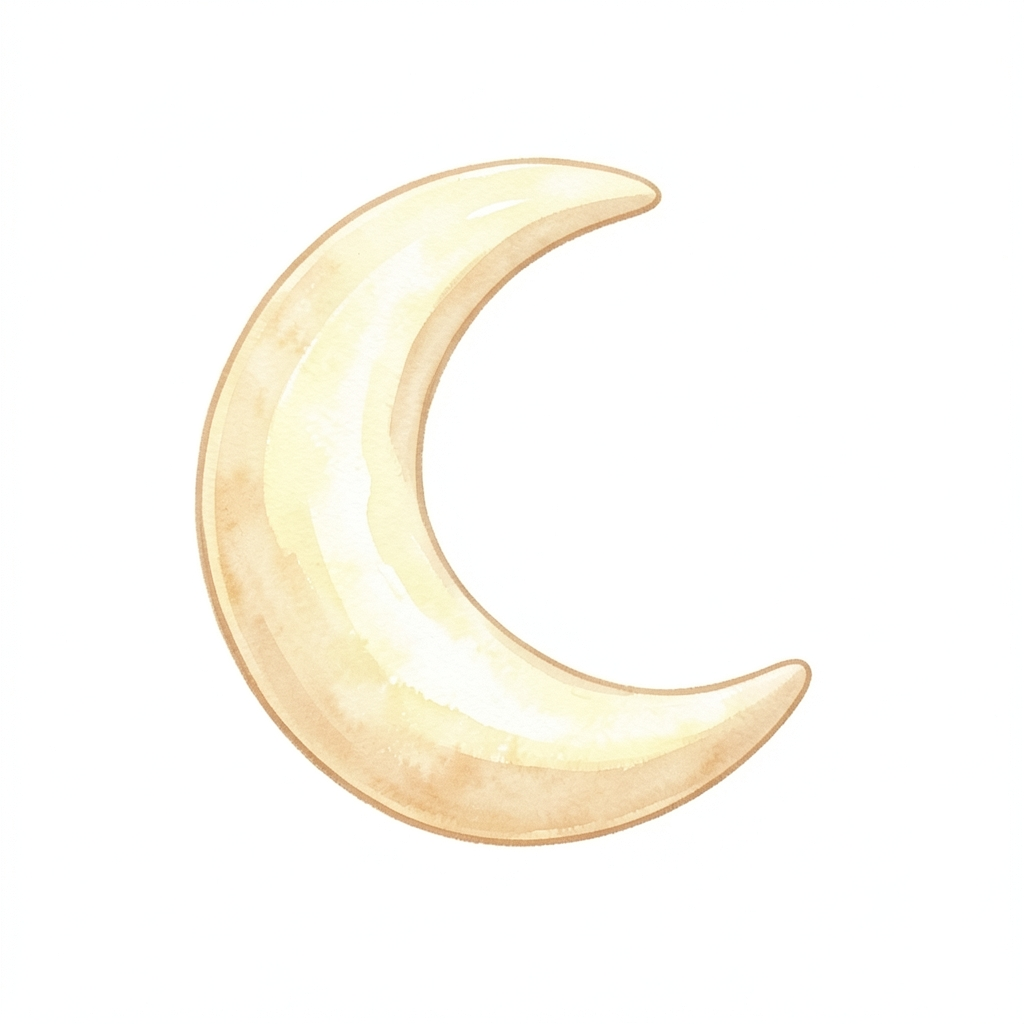
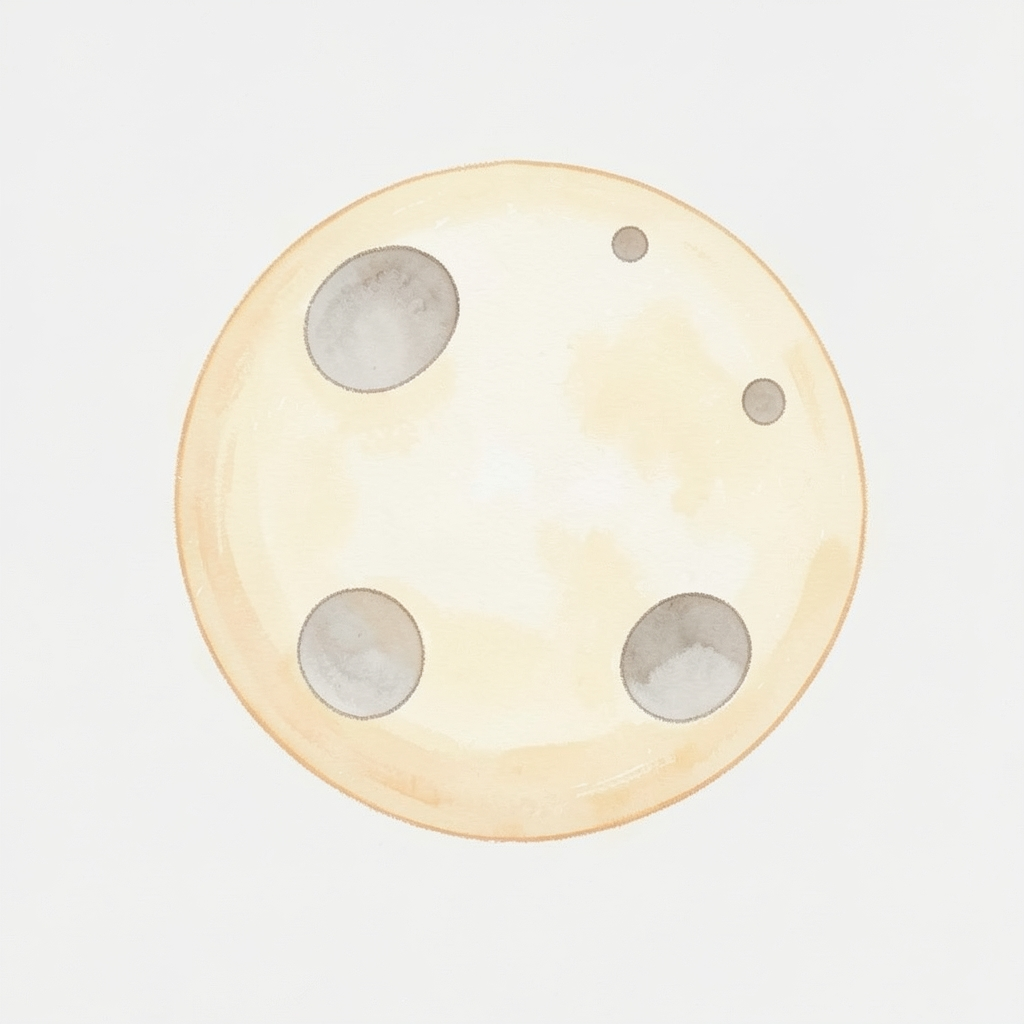
Regenerate moon as an approved full moon with craters
Task 289: user play-test feedback said the approved crescent read as a young moon. prompts/moon.md now specifies one complete evenly lit disc with 4-6 soft craters; iteration 2 approved 2026-10-29. Updates the QA facts row and the progress ledger. No runtime integration.

Agent: OpenCode/Big Pickle

Changed region(s): [[0.1562, 0.1562, 0.875, 0.8438], [0.25, 0.375, 0.2812, 0.4062]]

diff --git a/resources/General_reviews/Asset_Generation/prompts/moon.md b/resources/General_reviews/Asset_Generation/prompts/moon.md
@@ -14,10 +14,16 @@ Canvas: square 1024×1024 WIP image, one centered object with generous padding.
 
 Background: warm cream storybook paper, softly painted and unobtrusive; no transparency required for this WIP candidate.
 
+Iteration note (2026-10-29): iteration 1 was a broad crescent moon. User feedback: it reads as a young moon — they want a **full moon with a few craters**, closer to the real moon.
+
 --- prompt ---
 
-Create one clearly recognizable simple crescent moon as a standalone children's storybook illustration. Show a single softly rounded crescent with warm pale golden-yellow shading and a few very subtle painted tonal variations. Keep the crescent broad and readable at small game-object size, matching the Little Play family style: rounded softened construction, restrained watercolor grain, gentle edge shading, muted but unmistakable colour, and no heavy outline.
+Create one clearly recognizable simple FULL moon as a standalone children's storybook illustration: a single complete round disc, not a crescent and not a partly lit sphere.
 
-Center the complete crescent with comfortable padding and no cropping. The moon is the only subject. It must read as a crescent moon, not a banana, horn, curved leaf, or abstract shape.
+Show the full circle of the moon with warm pale cream-yellow paper colour and a small number of simple soft craters — four to six rounded, shallow, slightly darker warm-grey patches of different sizes, spread gently across the disc, one larger near the upper left. Keep the craters soft and painted, not detailed or photographic, and keep the disc evenly and fully lit (no shadow side, no terminator line).
 
-No face, eyes, smile, stars, sky, clouds, planet, rocket, astronaut, text, letters, logo, background scene, glossy 3D rendering, photorealism, emoji/vector styling, heavy black outline, strong glow, or extra moons.
+Match the Little Play family style: rounded softened construction, restrained watercolor grain, gentle painted edge and surface shading, muted but unmistakable colour, and no heavy outline. The disc must stay readable at small game-object size.
+
+Center the complete full moon with comfortable padding and no cropping. The moon is the only subject. It must read as a full moon, not a crescent, a ball, an egg, a cookie, or a cheese wheel.
+
+No crescent shape, no partly lit sphere, no shadow side, no face, eyes, smile, stars, sky, clouds, planet, rocket, astronaut, text, letters, logo, background scene, glossy 3D rendering, photorealism, emoji/vector styling, heavy black outline, strong glow, or extra moons.

diff --git a/resources/General_reviews/Asset_Generation/prompts/telescope.md b/resources/General_reviews/Asset_Generation/prompts/telescope.md
@@ -12,8 +12,17 @@ Canvas: square 1024×1024 WIP image, one centered object with generous padding.
 
 Background: warm cream storybook paper; no transparency required for WIP.
 
+Iteration note (2026-10-29): iteration 1 was accepted as "looks good" but the user asked for a more realistic tube — a glass lens at the wide front end pointing up, and a narrow viewing end. This brief now specifies a real refractor build.
+
 --- prompt ---
 
-Create one clearly recognizable simple children's telescope as a standalone storybook illustration. Show one short angled telescope tube with a wide front rim, small rear eyepiece and a simple three-legged tripod. Use muted warm brown, cream and gentle blue-grey, soft watercolor grain, rounded construction and gentle shading. Center the complete telescope with comfortable padding. It must read as a telescope, not a camera or spyglass held by a person.
+Create one clearly recognizable simple children's telescope as a standalone storybook illustration: a refractor telescope on a tripod, angled up toward the sky.
 
-No person, hands, stars, sky, planets, text, logo, face, scene, glossy 3D rendering, photorealism, emoji/vector styling, heavy black outline, glow or extra objects.
+- One long tube made of **two or three stepped barrel segments**: a WIDE front barrel at the upper end and a narrow rear barrel that steps down toward the viewer, so the tube visibly tapers from front to back like a real telescope.
+- At the upper front opening show a **visible round glass lens** — a smooth pale blue-white disc with one soft crescent highlight, seated inside a slightly wider front rim, clearly enclosed by the barrel.
+- At the lower rear end show a **small narrow eyepiece** — a short cylindrical tube with a dark round opening, much thinner than the front barrel.
+- A simple mount between tube and tripod, with a **three-legged tripod** standing evenly on a level base.
+
+Use muted warm brown, cream and gentle blue-grey, soft watercolor grain, rounded construction and gentle shading. Center the complete telescope with comfortable padding. It must read as a real telescope, not a camera, a spyglass held by a person, a trumpet, or a plain tube with no lens.
+
+No person, hands, stars, sky, planets, text, logo, face, scene, glossy 3D rendering, photorealism, emoji/vector styling, heavy black outline, glow, or extra objects.

diff --git a/resources/General_reviews/Asset_Generation/PROGRESS.md b/resources/General_reviews/Asset_Generation/PROGRESS.md
@@ -1159,3 +1159,12 @@ The user asked for the same pictures at the family resolution, **not** new artwo
 - [x] **Generated (iteration 2, kept):** 1024x1024, 966,202 bytes, opaque. Measured: paper 221.87/227.03/235.74, palette-match vs bear 0.6591, small-size legibility proxy 117.22.
 - [x] **User review: APPROVED 2026-10-29.** The inventory row is `GENERATED / USER-APPROVED / TECHNICAL QA MEASURED`.
 - [ ] **Not done here:** no copy into `game/assets/images/`, no glyph swap, no new smoke, no screenshot refresh, no offline pack, no `sync-docs.sh` — `game/` was not touched.
+
+## Regenerated — moon (object-moon), full moon, approved 2026-10-29 (task 289)
+
+- [x] **Preflight.** The row was already `GENERATED / USER-APPROVED` from the 2026-10-26 objects batch, but the user reported at play-test review that the picture reads as a young crescent moon and asked for a full moon with craters, closer to the real moon. The brief is rewritten in place (`prompts/moon.md`) and the asset regenerated as iteration 2.
+- [x] **Iteration 1 (replaced):** broad crescent moon, 1024x1024, palette-match 0.6799, small contrast 26.03.
+- [x] **Iteration 2 (approved):** brief specifies one complete round, evenly lit disc, 4-6 soft shallow craters (one larger upper-left), warm pale cream-yellow; explicitly bans crescents, shadow sides, faces and ball/cookie/cheese readings. References `bear.png` + `star.png` + `bone.png`.
+- [x] **Generated (iteration 2, kept):** 1024x1024, 822,917 bytes, opaque. Measured: paper 239.97/236.92/228.73, palette-match vs bear 0.1786, small-size legibility proxy 21.88 (low — a pale moon on warm paper is a small luminance step, the same class as the approved `bone` 32.61 and `egg` 39.66).
+- [x] **User review: APPROVED 2026-10-29.** The inventory row stays `GENERATED / USER-APPROVED / TECHNICAL QA MEASURED`, now with the iteration-2 measurements.
+- [ ] **Not done here:** no copy into `game/assets/images/`, no glyph swap, no new smoke, no screenshot refresh, no offline pack, no `sync-docs.sh` — `game/` was not touched.

diff --git a/resources/General_reviews/Asset_Generation/ASSET_INVENTORY.md b/resources/General_reviews/Asset_Generation/ASSET_INVENTORY.md
@@ -356,7 +356,7 @@ measurements only — they say nothing about how the pictures look.
 | season-leaf.png | 1024x1024 | rgb | 100/0/0 | 0.698 | 95.34 | painted (approved 2026-10-26, objects batch; two-reference retry) |
 | shell.png | 1024x1024 | rgb | 100/0/0 | 0.6028 | 39.7 | painted (approved 2026-10-26, objects batch) |
 | gem.png | 1024x1024 | rgb | 100/0/0 | 0.0115 | 47.46 | painted (approved 2026-10-26, objects batch) |
-| moon.png | 1024x1024 | rgb | 100/0/0 | 0.6799 | 26.03 | painted (approved 2026-10-26, objects batch) |
+| moon.png | 1024x1024 | rgb | 100/0/0 | 0.1786 | 21.88 | painted (approved 2026-10-29, full moon with craters, iteration 2) |
 | volcano.png | 1024x1024 | rgb | 100/0/0 | 0.548 | 166.75 | painted (approved 2026-10-26, taller/more-lava retry) |
 | cactus.png | 1024x1024 | rgb | 100/0/0 | 0.0089 | 60.11 | painted (approved 2026-10-26, desert batch) |
 | parrot.png | 1024x1024 | rgb | 100/0/0 | 0.1234 | 128.63 | painted (approved 2026-10-29, Scarlet macaw, iteration 3) |
